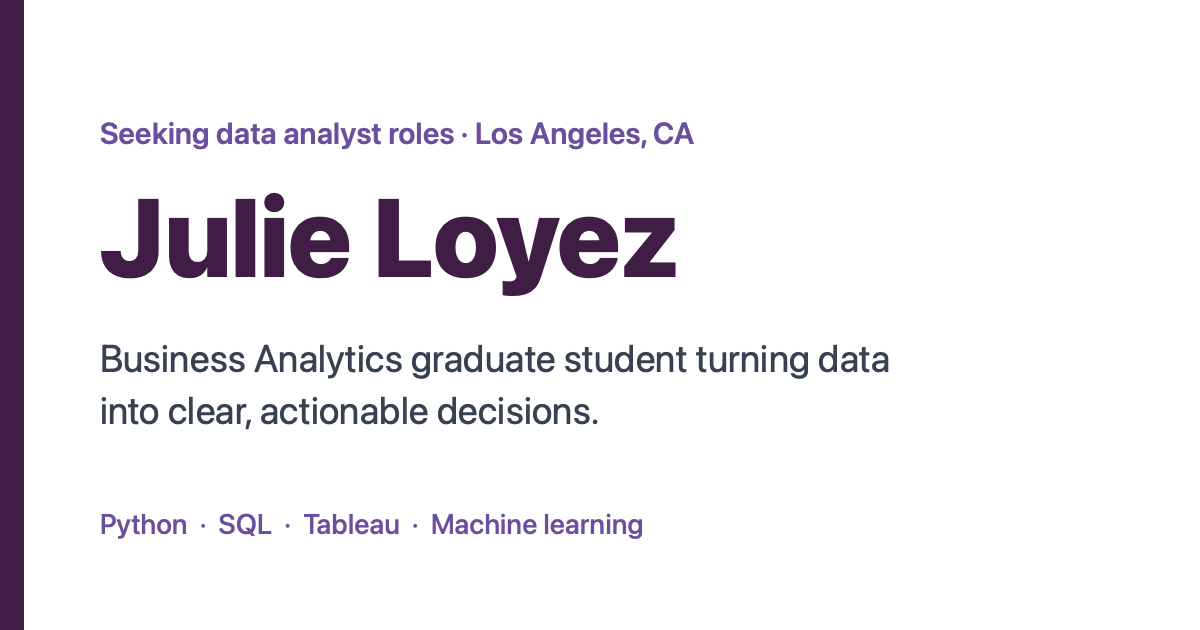
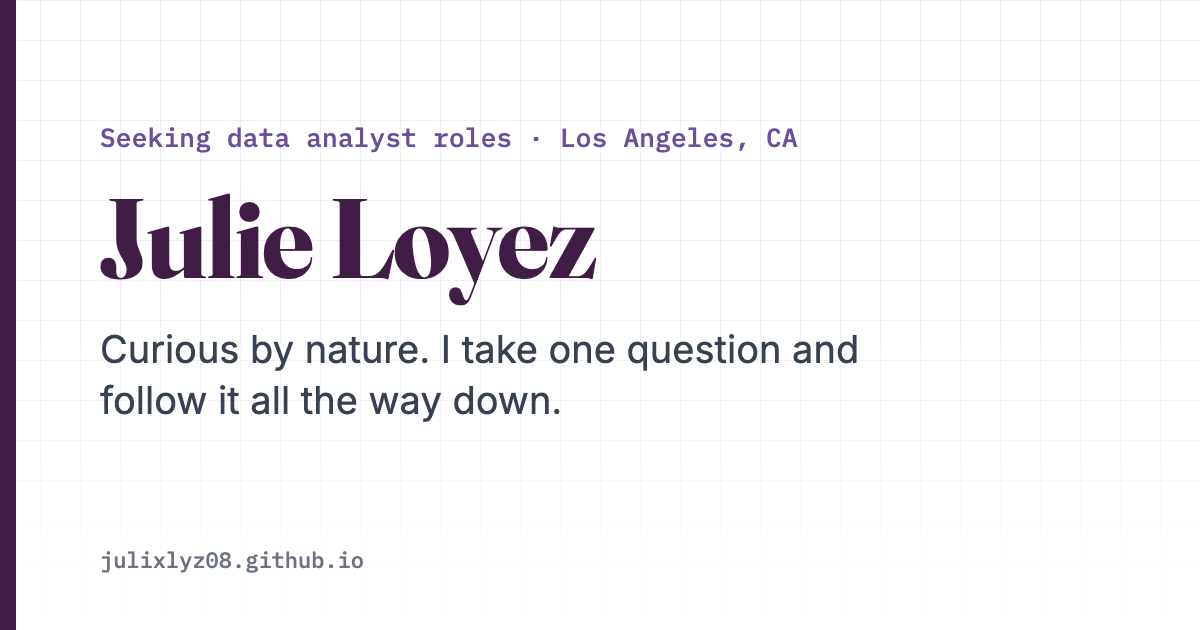
Polish: new link preview, plain-text top skills, shorter cards, resume opens in tab
Also stack the featured project card on tablets.

diff --git a/data/projects.js b/data/projects.js
@@ -81,7 +81,7 @@ const PROJECTS = [
     title: "7-Eleven Japan: Who Pays?",
     context: "Personal project",
     date: "Fall 2026",
-    description: "Where does 7-Eleven Japan's edge come from, who pays for it, and what is it worth? A four-part analysis built only from public data: Seven & i's filings, government statistics and OpenStreetMap.",
+    description: "A four-part look at Japan's largest convenience-store chain, built only from public data.",
     highlight: "Rising wages land on store owners, not head office: by FY2030 an owner's profit roughly halves while head office's take grows 14%.",
     tags: ["Python", "pandas", "statsmodels", "Spatial analysis", "Panel regression", "Monte Carlo", "Valuation"],
     image: {
@@ -118,7 +118,7 @@ const PROJECTS = [
     title: "Airbnb in Los Angeles: Who the Hosts Are",
     context: "Personal project",
     date: "Fall 2026",
-    description: "How does the type of host change what guests pay, what they experience, and when they travel? Four parts using Inside Airbnb data for the City of Los Angeles and Airbnb's own SEC filings.",
+    description: "Four parts on how host size shapes prices, reviews and seasons in Los Angeles.",
     highlight: "Large hosts' 15% price premium mostly reflects bigger homes: like-for-like, it shrinks to 2–5%, within what could be chance.",
     tags: ["SQL", "SQLite", "Python", "statsmodels", "Regression", "Text analysis", "Time series"],
     image: {
@@ -156,7 +156,7 @@ const PROJECTS = [
     title: "Credit Risk Classification Model",
     context: "Team capstone · CSUN",
     date: "Spring 2026",
-    description: "A machine learning model that flags higher-risk Lending Club loan applicants using only the information available when they apply, so risky loans can be caught before any money goes out.",
+    description: "A model that flags higher-risk loan applicants using only what is known when they apply.",
     highlight: "Raised the share of risky loans caught from 22% to 86% with a cost-based threshold, cutting total error cost by more than half.",
     tags: ["Python", "scikit-learn", "Machine learning", "Logistic Regression"],
     image: {

diff --git a/js/main.js b/js/main.js
@@ -76,7 +76,7 @@ function renderHero(content) {
   });
   fill("hero-label", escapeHtml(content.heroLabel));
   fill("hero-tagline", escapeHtml(content.tagline));
-  fill("hero-skills", content.topSkills.map((skill) => `<li class="tag">${escapeHtml(skill)}</li>`).join(""));
+  fill("hero-skills", `<span class="visually-hidden">Top skills: </span>${content.topSkills.map(escapeHtml).join(" · ")}`);
 
   // Photo is optional: only shown when photo.src is filled in.
   if (hasValue(content.photo.src) && !isTodo(content.photo.src)) {
@@ -93,7 +93,7 @@ function renderHero(content) {
 // so they always stay in the same order.
 function contactButtons(links) {
   return (
-    linkButton({ label: "Download Resume (PDF)", href: links.resume, download: true }) +
+    linkButton({ label: "Resume (PDF)", href: links.resume, external: true }) +
     linkButton({ label: "LinkedIn", href: links.linkedin, style: "secondary", external: true }) +
     linkButton({ label: "GitHub", href: links.github, style: "secondary", external: true }) +
     linkButton({ label: "Email", href: `mailto:${links.email}`, style: "secondary" })

diff --git a/css/styles.css b/css/styles.css
@@ -319,6 +319,9 @@ a:hover {
 }
 
 .hero-skills {
+  font-family: var(--font-mono);
+  font-size: 0.95rem;
+  color: var(--color-text-muted);
   margin-bottom: 2rem;
 }
 
@@ -1170,4 +1173,16 @@ h1, h2, h3, h4,
   width: 100%;
   height: auto;
   aspect-ratio: 16 / 10;
+}
+
+/* Tablets and phones: the featured card stacks (chart on top, text below) */
+@media (max-width: 900px) {
+  .project-featured .project-main {
+    grid-template-columns: 1fr;
+  }
+
+  .project-featured .project-image {
+    border-right: 0;
+    border-bottom: 1px solid var(--color-border);
+  }
 }

diff --git a/index.html b/index.html
@@ -65,7 +65,7 @@
           <p class="hero-label" id="hero-label"></p>
           <h1 class="hero-name" id="hero-name" data-fill="name">Julie Loyez</h1>
           <p class="hero-tagline" id="hero-tagline"></p>
-          <ul class="tag-list hero-skills" id="hero-skills" aria-label="Top skills"></ul>
+          <p class="hero-skills" id="hero-skills"></p>
           <div class="button-row" id="hero-actions"></div>
         </div>
       </div>
